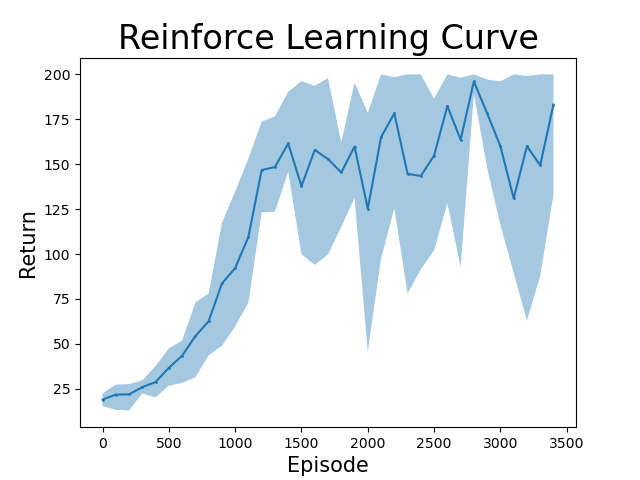
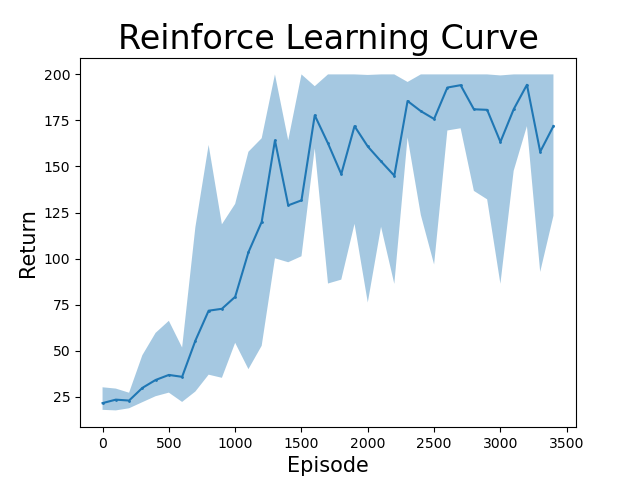
Better Fig 1

diff --git a/hw2/hw2_code/pytorch/a2c/a2c.py b/hw2/hw2_code/pytorch/a2c/a2c.py
@@ -95,7 +95,7 @@ class A2C(object):
 
         action_probs = self.actor(torch.from_numpy(np.array(obss)).float())[torch.arange(T), actions]
         if self.type == "Reinforce":
-            actor_loss = -torch.sum(torch.log(action_probs) * G) / T
+            actor_loss = -torch.sum(torch.log(action_probs) * G.detach()) / T
         elif self.type == "Baseline":
             baseline_values = self.critic(torch.from_numpy(np.array(obss)).float()).squeeze()
             actor_loss = -torch.sum(torch.log(action_probs) * (G - baseline_values).detach()) / T
